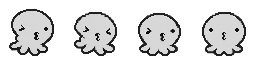
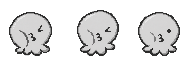
캐릭터: 원본 피격 그림과 반대 방향 입을 살린 짧은 모션

diff --git a/docs/검증/octopus-character-assets/README.md b/docs/검증/octopus-character-assets/README.md
@@ -11,18 +11,20 @@
 | 대기 | [idle-64.png](idle-64.png) | 12 | 각 250 ms, 호흡 3초 |
 | 이동 | [walk-64.png](walk-64.png) | 8 | 각 140 ms |
 | 멈춤 | [stop-64.png](stop-64.png) | 4 | 100 / 90 / 120 / 650 ms |
-| 피격 | [hit-64.png](hit-64.png) | 4 | 100 / 90 / 140 / 750 ms |
+| 피격 | [hit-64.png](hit-64.png) | 3 | 50 / 70 / 100 ms, 총0.22초 |
 | 승리 | [victory-64.png](victory-64.png) | 16 | 각 200 ms, 왕복 3.2초 |
 
 각 시트는 64×64 셀을 가로로 붙인 RGBA PNG다. 정규화된 발 기준 pivot=(0.5, 0.125). 원본 생성 시트는 source/에 보존했다. 셀 분리·공통 크기 조정은 원본을 다시 그리지 않고 nearest-neighbor로 수행했다. 동작별 원본 비례를 유지하고 프레임 간 발 기준을 맞췄다.
 
-Unity 가져오기 권장: Sprite (2D and UI), Multiple, Grid by Cell Size 64×64, Filter Mode Point, Compression None, Generate Mip Maps 끔. Pixels Per Unit 48을 시작점으로 삼고 게임의 기존 캐릭터 월드 크기에 맞춘다. 피격·멈춤은 앞 3프레임을 한 번 재생한 뒤 마지막 프레임에서 대기로 전환한다. 피격·멈춤 GIF의 마지막 긴 대기 시간은 미리보기의 반복 간격이다. 승리는 16프레임을 각 200ms로 반복한다.
+Unity 가져오기 권장: Sprite (2D and UI), Multiple, Grid by Cell Size 64×64, Filter Mode Point, Compression None, Generate Mip Maps 끔. Pixels Per Unit 48을 시작점으로 삼고 게임의 기존 캐릭터 월드 크기에 맞춘다. 피격은3프레임을50/70/100ms로 한 번 재생한 뒤 대기로 전환한다. 멈춤은 앞3프레임을 한 번 재생한 뒤 마지막 프레임에서 대기로 전환한다. 피격·멈춤 GIF의 마지막 긴 대기 시간은 미리보기의 반복 간격이다. 승리는 16프레임을 각 200ms로 반복한다.
 
 ## 미리보기
 
 - [전체 동작 GIF](all-states-preview.gif)
 - [승리 춤 GIF](victory-preview.gif)
 - [대기](idle-preview.gif), [이동](walk-preview.gif), [멈춤](stop-preview.gif), [피격](hit-preview.gif)
+
+피격은 원본 오른쪽 아래 그림의 볼 안쪽 큰 곡선과 반대편으로 내민 입을 기준으로 다시 만들었다. 머리 외곽은 둥글게 유지하고, 왼쪽 볼이 안으로 눌리면 입은 오른쪽으로 튀어나온다. 입은 오른쪽으로 두 곡선이 볼록한3자 방향이며, 반대로 뒤집힌 입을 사용하지 않는다. 눌림·반동·복귀의3프레임을50/70/100ms로 총0.22초 한 번 재생한 뒤 대기로 전환한다. 투명 아틀라스는192×64다. GIF에는 동작을 확인하기 쉽도록 대기 첫 프레임700ms를 추가해 총0.92초로 반복하며, 이 대기 프레임은 피격 PNG에 포함하지 않는다. 최종본은final/hit-64.png 및final/hit-preview.gif에 보관했다. 게임에는 아직 일괄 적용하지 않았다.
 
 대기는 사용자가 선택한 첫 번째 12프레임 시안을 그대로 GIF와 가로 아틀라스로 조립했다. 후속 사선 자세·입 방향 수정은 사용자가 취소해 반영하지 않았다. 점눈과 작은 입을 유지하며 위쪽 몸체가 천천히 오르내리는 3초 호흡이다. 원본 4열×3행의 투명 간격으로 셀을 분리하고, 높이 중앙값44픽셀 공통 배율과 발 하단y56을 적용했다. 최종 프레임 높이는43~46픽셀이다. 프레임마다 따로 크기를 맞추거나 입을 다시 그리지 않았다.
 

diff --git a/docs/검증/octopus-character-assets/final/README.md b/docs/검증/octopus-character-assets/final/README.md
@@ -5,6 +5,7 @@
 | 동작 | 투명 PNG 아틀라스 | 미리보기 | 프레임·시간 |
 |---|---|---|---|
 | 대기 | [idle-64.png](idle-64.png) | [idle-preview.gif](idle-preview.gif) | 12프레임·각250ms·3초 |
+| 피격 | [hit-64.png](hit-64.png) | [hit-preview.gif](hit-preview.gif) | 3프레임·50/70/100ms·0.22초 |
 | 승리 | [victory-64.png](victory-64.png) | [victory-preview.gif](victory-preview.gif) | 16프레임·각200ms·3.2초 |
 
 대기는 사용자가 선택한 첫 시안 그대로의 호흡, 승리는 원본 승리 그림에서 만든 느린 한쪽 팔 왕복이다. 추가 동작도 이 폴더에 보관한다.
@@ -12,3 +13,5 @@
 공통 가져오기: 64×64 셀의 가로 RGBA 시트, Sprite Multiple, Point 필터, Compression None, Mip Maps 끔, 발 피벗(0.5,0.125). Pixels Per Unit은48을 시작점으로 게임 크기에 맞춘다. 개별 프레임 수·시간·파일명은 [manifest.json](manifest.json)에 있다. 원본 생성 시트와 프롬프트는 상위 폴더의 source/ 및 prompts.json에 보관한다.
 
 GIF는256×256 nearest-neighbor 확대 미리보기이며 게임 원본은 PNG다. 승리 참고 녹화는 무음이므로3.2초 타이밍은 보이는 움직임에 따른 해석이다.
+
+피격은 원본처럼 왼쪽 볼 안쪽이 눌리고 입이 반대인 오른쪽으로 튀어나오는 충격→반동→복귀를0.22초에 한 번 재생한 뒤 대기로 전환한다. 미리보기 GIF만 끝에 대기700ms를 넣어 반복을 구분했다. 실제 피격 아틀라스는3장뿐이다.

diff --git a/docs/구조/characters/NOTES.md b/docs/구조/characters/NOTES.md
@@ -1,5 +1,7 @@
 # 최근 변경
 
+- 2026-10-16 피격: 원본처럼 둥근 머리 외곽을 유지하고 왼쪽 볼 안쪽의 큰 곡선·찡그린 오른눈·반대편 오른쪽으로 내민3자 입을 살려 충격/반동/복귀3프레임을 제작했다. 50/70/100ms, 총0.22초 1회 후대기 전환. 192×64 RGBA 아틀라스와 확인용0.92초 GIF를 final에 추가하고 적용정보·프롬프트·원본을 갱신했다. GIF의 마지막 대기700ms는 실제 피격 프레임이 아니다. 게임 일괄 적용은 대기 중.
+
 - 2026-10-16 대기·최종본 보관: 사용자가 첫 번째 대기 시안을 선택해 후속 자세/입 수정은 취소했다. 선택 시안 그대로12프레임·3초 호흡 GIF와768×64 RGBA 아틀라스를 조립했다. 대기와 확정 승리의 PNG/GIF·적용 manifest를 docs/검증/octopus-character-assets/final에 모았다. 이후 최종 동작은 같은 폴더에서 갱신하고 실제 게임에는 한꺼번에 적용할 예정. 승리 에셋은 보존했다.
 
 ## 2026-10-13 시야·속성 몬스터·대시

diff --git a/docs/구조/characters/README.md b/docs/구조/characters/README.md
@@ -14,6 +14,10 @@
 
 ## 관련 파일
 
+- `Source/문어_유한맵/../../docs/검증/octopus-character-assets/final/hit-64.png`
+- `Source/문어_유한맵/../../docs/검증/octopus-character-assets/final/hit-preview.gif`
+- `Source/문어_유한맵/../../docs/검증/octopus-character-assets/source/hit-source.png`
+
 - `Source/문어_유한맵/../../docs/검증/octopus-character-assets/walk-polished.json`
 
 - `Source/문어_유한맵/../../docs/검증/octopus-character-assets/walk-polished-preview.gif`
